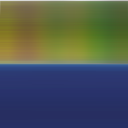
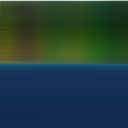
gamma korekcija input textura loadanje default materiala i parametara korekcija tekstura Enterprisea D rad na PBR
git-svn-id: https://r7/svn/WebGL@279 45b56d4a-f8b8-b242-b192-c14f84797ed6

diff --git a/GLExt/glMaterial.js b/GLExt/glMaterial.js
@@ -17,6 +17,14 @@ export class CMaterialParam
 		this.uniformLocation = -1;
 	}
 	
+	CopyFrom(param){
+		this.name = param.name;
+		this.bindpoint = param.bindpoint;
+		this.value = param.value;
+		this.type = param.type;
+		this.uniformLocation = param.uniformLocation;
+	}
+	
 	setUniformToShader(shader){
 		if(shader == null) return;
 		
@@ -116,19 +124,27 @@ export class CMaterial extends CGLExtObject
 	constructor(slotID)
 	{
 		super();
+		this.id = "";
 		this.shaderName = "";
 		this.shaderID = -1;
 		this.params = [];
 		this.textureLinks = [];
 		this.renderpass = "-";
+		this.bIsMaterialLink = false;
 	}
+	
+	isMaterialLink(){ return this.bIsMaterialLink; }
 	
 	LoadFromXMLDOM(material){
 		material.getElementsByTagNameImmediate = sys.utils.getElementsByTagNameImmediate;
 		
-		this.shaderName = material.attributes.shader.value;
+		if(material.attributes.shader !== undefined)
+			this.shaderName = material.attributes.shader.value;
 		if(material.attributes.renderpass !== undefined)
 			this.renderpass = material.attributes.renderpass.value;
+		if(material.attributes.id !== undefined)
+			this.id = material.attributes.id.value;
+		
 		this.params = CMaterialParam.LoadParamsFromXMLDOM(material);
 		
 		let txs = material.getElementsByTagNameImmediate("texture");
@@ -142,6 +158,11 @@ export class CMaterial extends CGLExtObject
 			this.textureLinks[this.textureLinks.length] = texlink;
 		}
 		
+		if(material.attributes.shader === undefined){
+			this.bIsMaterialLink = true;
+			return false; //material link, needs to get params from other material
+		}
+		
 		let shader = CShaderList.getByName(this.shaderName);
 		if(shader != null){
 			this.shaderID = shader.SlotID;
@@ -151,6 +172,51 @@ export class CMaterial extends CGLExtObject
 				p.uniformLocation = shader.getUniformLocation(p.bindpoint);
 			}
 		}
-	}
 		
+		return true;
+	}
+	
+	LinkFromMaterial(material){
+		
+		let paramNo = this.params.length;
+		for(let p = 0; p < material.params.length; ++p){
+			let param = material.params[p];
+			let bHasParam = false;
+			for(let h = 0; h < paramNo; ++h){ 
+				if(this.params[h].name == param.name){
+					bHasParam = true; break; }
+			}
+			if(bHasParam == true) continue;
+			
+			this.params[this.params.length] = param;
+		}
+		
+		let texNo = this.textureLinks.length;
+		for(let t = 0; t < material.textureLinks.length; ++t){
+			let texlink = material.textureLinks[t];
+			let bHasTexLink = false;
+			for(let h = 0; h < texNo; ++h){
+				if(this.textureLinks[h].UniformLocationStr == texlink.UniformLocationStr){
+					bHasTexLink = true; break;
+				}
+			}
+			if(bHasTexLink == true) continue;
+			
+			this.textureLinks[this.textureLinks.length] = texlink;
+		}
+		
+		this.shaderName = material.shaderName;
+		
+		let shader = CShaderList.getByName(this.shaderName);
+		if(shader != null){
+			this.shaderID = shader.SlotID;
+			for(let i = 0; i < this.params.length; ++i){
+				let p = this.params[i];
+				
+				p.uniformLocation = shader.getUniformLocation(p.bindpoint);
+			}
+		}
+		
+		return true;
+	}
 }

diff --git a/pages/Space/index.html b/pages/Space/index.html
@@ -95,14 +95,15 @@
   </head>
 <body>
 	<img id="reload_shader_btn" onclick="reload_shader('deferred_opaque_shader')" title="deferred_opaque_shader" src="./../../misc/reload_ico.png"></img>
+	<img id="reload_shader_btn" onclick="reload_shader('pbr')" title="pbr" src="./../../misc/reload_ico.png"></img>
 	<img id="reload_shader_btn" onclick="reload_shader('deferred_BcNAoRSMt')" title="deferred_BcNAoRSMt" src="./../../misc/reload_ico.png"></img>
 	<img id="reload_shader_btn" onclick="reload_shader('deferred_planet_BcNAoRSMt')" title="deferred_planet_BcNAoRSMt" src="./../../misc/reload_ico.png"></img>
 	<img id="reload_shader_btn" onclick="reload_shader('transparent_shader')" title="transparent_shader" src="./../../misc/reload_ico.png"></img>
 	<img id="reload_shader_btn" onclick="reload_shader('glow_integrate_shader')" title="glow_integrate_shader" src="./../../misc/reload_ico.png"></img>
 	<img id="reload_shader_btn" onclick="reload_shader('deferred_skybox')" title="deferred_skybox" src="./../../misc/reload_ico.png"></img>
 	<img id="reload_shader_btn" onclick="reload_shader('atmosphere_shader')" title="atmosphere_shader" src="./../../misc/reload_ico.png"></img>
-  	<img id="reload_texture_btn" onclick="reload_texture('txGlass_AoRS')" title="txGlass_AoRS" src="./../../misc/reload_ico.png"></img>
-  	<img id="reload_texture_btn" onclick="reload_texture('txGlass_N')" title="txGlass_N" src="./../../misc/reload_ico.png"></img>
+  	<img id="reload_texture_btn" onclick="reload_texture('planet_AoRS')" title="planet_AoRS" src="./../../misc/reload_ico.png"></img>
+  	<img id="reload_texture_btn" onclick="reload_texture('planet_diffuse')" title="planet_diffuse" src="./../../misc/reload_ico.png"></img>
   
 	<div style="background-color:#0055ff">
 	  <canvas id="glcanvas" width="1920" height="1080">
@@ -111,7 +112,7 @@
 	</div>
 	
   <script type="module">
-	import { main, recompileShader, reloadTexture } from "./main_deffered.js";
+	import { main, recompileShader, reloadTexture, constructTextureDOMobj } from "./main_deffered.js";
 	import { fetchImage } from "./../../GLExt/glTexture.js";
 	function wait(ms){ const start = performance.now(); while(performance.now() - start < ms); }
 	
@@ -210,6 +211,8 @@
 	
 	window.reload_texture = function reload_texture(id){
 		var obj = document.getElementById(id);
+		if(obj == null)
+			obj = constructTextureDOMobj(id);
 		
 		var header = new Headers();
 		header.append('pragma', 'no-cache');

diff --git a/GLExt/glModelAssembly.js b/GLExt/glModelAssembly.js
@@ -46,12 +46,19 @@ export class CModelAssembly extends CGLExtObject
 		}
 		
 		let defaultMaterial = null;
-		if(xmlAsm.getElementsByTagNameImmediate("material").length > 0){
-			defaultMaterial = new CMaterial();
-			defaultMaterial.LoadFromXMLDOM( xmlAsm.getElementsByTagNameImmediate("material")[0] );
+		let globalMaterials = [];
+		let xmlDefaultMaterials = xmlAsm.getElementsByTagNameImmediate("material");
+		
+		if(xmlDefaultMaterials.length > 0){
+			for(let i = 0; i < xmlDefaultMaterials.length; ++i){
+				globalMaterials[i] = new CMaterial();
+				globalMaterials[i].LoadFromXMLDOM( xmlAsm.getElementsByTagNameImmediate("material")[i] );
+			}
+			defaultMaterial = globalMaterials[0];
 		}
 		
 		let mdls = xmlAsm.getElementsByTagNameImmediate("model");		
+		let matLinks = [];
 		for(let i = 0; i < mdls.length; ++i){
 			let mdl = mdls[i];
 			mdl.getElementsByTagNameImmediate = sys.utils.getElementsByTagNameImmediate;
@@ -64,7 +71,8 @@ export class CModelAssembly extends CGLExtObject
 			
 			if( mdl.getElementsByTagNameImmediate("material").length > 0 ){
 				material = new CMaterial();
-				material.LoadFromXMLDOM( mdl.getElementsByTagNameImmediate("material")[0] );
+				if(material.LoadFromXMLDOM( mdl.getElementsByTagNameImmediate("material")[0] ) == false)//if false it's material link
+					matLinks[matLinks.length] = this.models.length;
 			}
 			
 			model.setMaterial(material);
@@ -73,6 +81,36 @@ export class CModelAssembly extends CGLExtObject
 			model.setParams(params);
 			
 			this.models[this.models.length] = model;
+		}
+		
+		//material linking
+		for(let i = 0; i < matLinks.length; ++i){
+			let model = this.models[matLinks[i]];
+			
+			let material = null;
+			for(let m = 0; m < globalMaterials.length; ++m){
+				if(globalMaterials[m].id == model.material.id){
+					material = globalMaterials[m];
+					break;
+				}
+			}
+			if(material == null)
+			for(let m = 0; m < this.models.length; ++m){
+				if(m == matLinks[i]) continue;
+				
+				if(model.material.id == this.models[m].material.id && this.models[m].material.isMaterialLink() == false){
+					material = this.models[m].material;
+					break;
+				}
+			}
+			
+			if(material === null){
+				alert("LoadAssemblyFromXML(): material link not found! <" + model.material.id + ">");
+				continue;
+			}
+			
+			model.material.LinkFromMaterial(material);
+			model.setMaterial(model.material);
 		}
 	}
 }

diff --git a/pages/Space/main_deffered.js b/pages/Space/main_deffered.js
@@ -346,7 +346,7 @@ export function main(){
 	// var time_of_start = sys.time.getTimeµs();
 	glext.CBlendMode.Enable();
 	
-	setInterval( function(){ window.requestAnimationFrame(renderFrame); }, 25);
+	setInterval( function(){ window.requestAnimationFrame(renderFrame); }, 13);
 		
 	// var circularMov = [0.0, 0.0]; //azimuth, inclination
 	// var distFromObject = 7.0;
@@ -404,7 +404,7 @@ export function main(){
 		light.setDisplayColor(0.5,0.79,1.0,1.0);
 		light.setMatrices( Camera.ViewMatrix, Camera.ProjectionMatrix );
 		light.RenderPosition();
-		light.setIntensity(1.5);//917.0
+		light.setIntensity(4.5);//917.0
 		light.setColor(0.5,0.79,1.0,1.0);
 		light.Update();
 		//-------------------------------------------------------------------------------------
@@ -750,6 +750,31 @@ export function reloadTexture(texture_name){
 			break;
 		}
 	}
+}
+
+export function constructTextureDOMobj(texture_name){
+	if(gl == null) return;
+	
+	let texture = null;
+	
+	for(var i = 0; i < glext.CTextureList.count(); ++i)
+	{
+		var tx = glext.CTextureList.get(i);
+		if(tx.name == texture_name){
+			texture = tx;
+			break;
+		}
+	}
+	
+	if(texture == null) return null;
+	
+	let obj = document.createElement("IMG");
+	obj.id = texture_name;
+	obj.src = texture.src;
+	obj.style.display = "none";
+	document.body.appendChild(obj);
+	
+	return obj;
 }
 
 function checkWindowsSizeAndResizeCanvas(){

diff --git a/GLExt/glTexture.js b/GLExt/glTexture.js
@@ -276,7 +276,7 @@ export class CTexture extends CGLExtObject{
 		this.internalFormat = -1;
 		this.type = -1;
 		this.name = "-";
-		this.scr = "";
+		this.src = "";
 		this.lodBias = -0.5;
 	}
 	
@@ -790,7 +790,7 @@ export class CTexture3D extends CGLExtObject{
 		this.internalFormat = -1;
 		this.type = -1;
 		this.name = "-";
-		this.scr = "";
+		this.src = "";
 	}
 	
 	CreateEmpty(width, height, depth, internalFormat, format, type){
